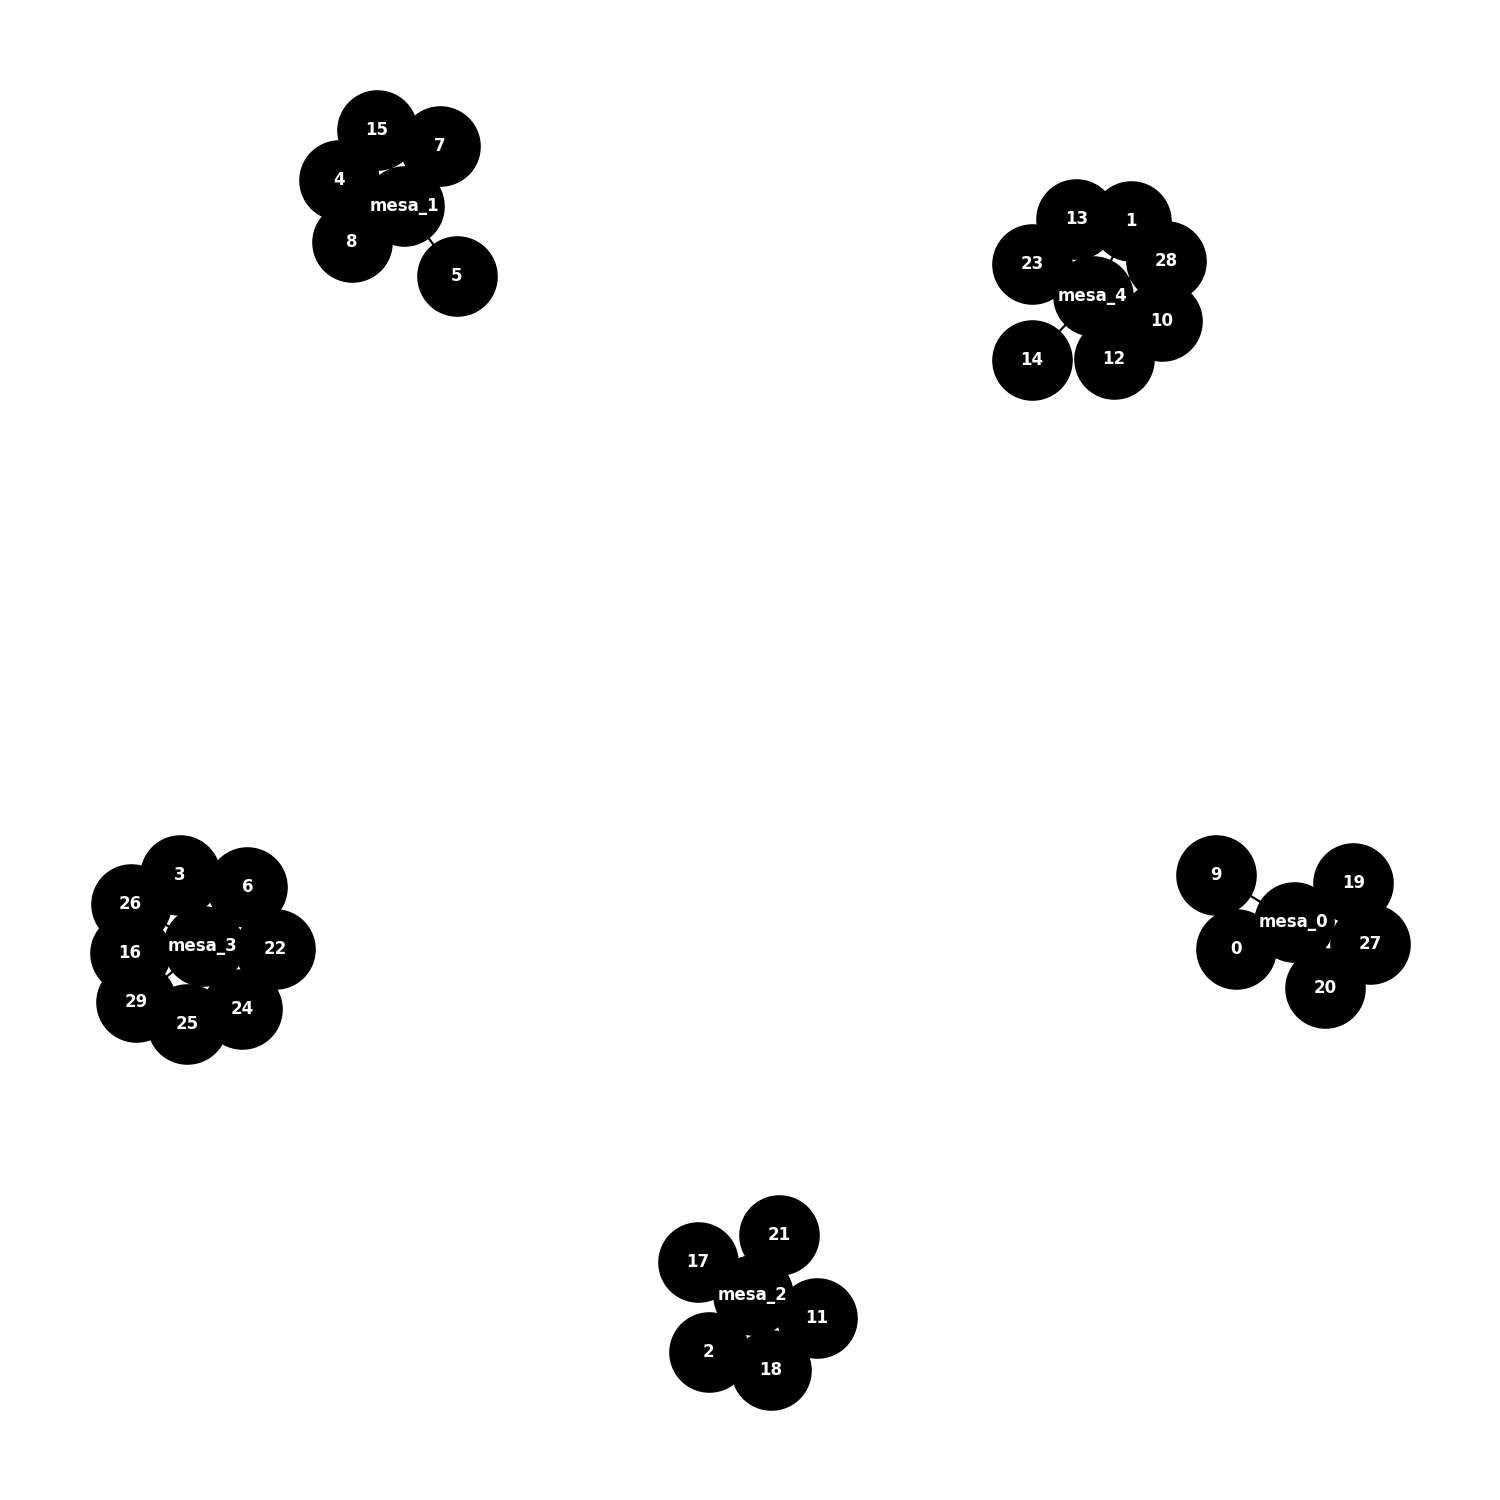
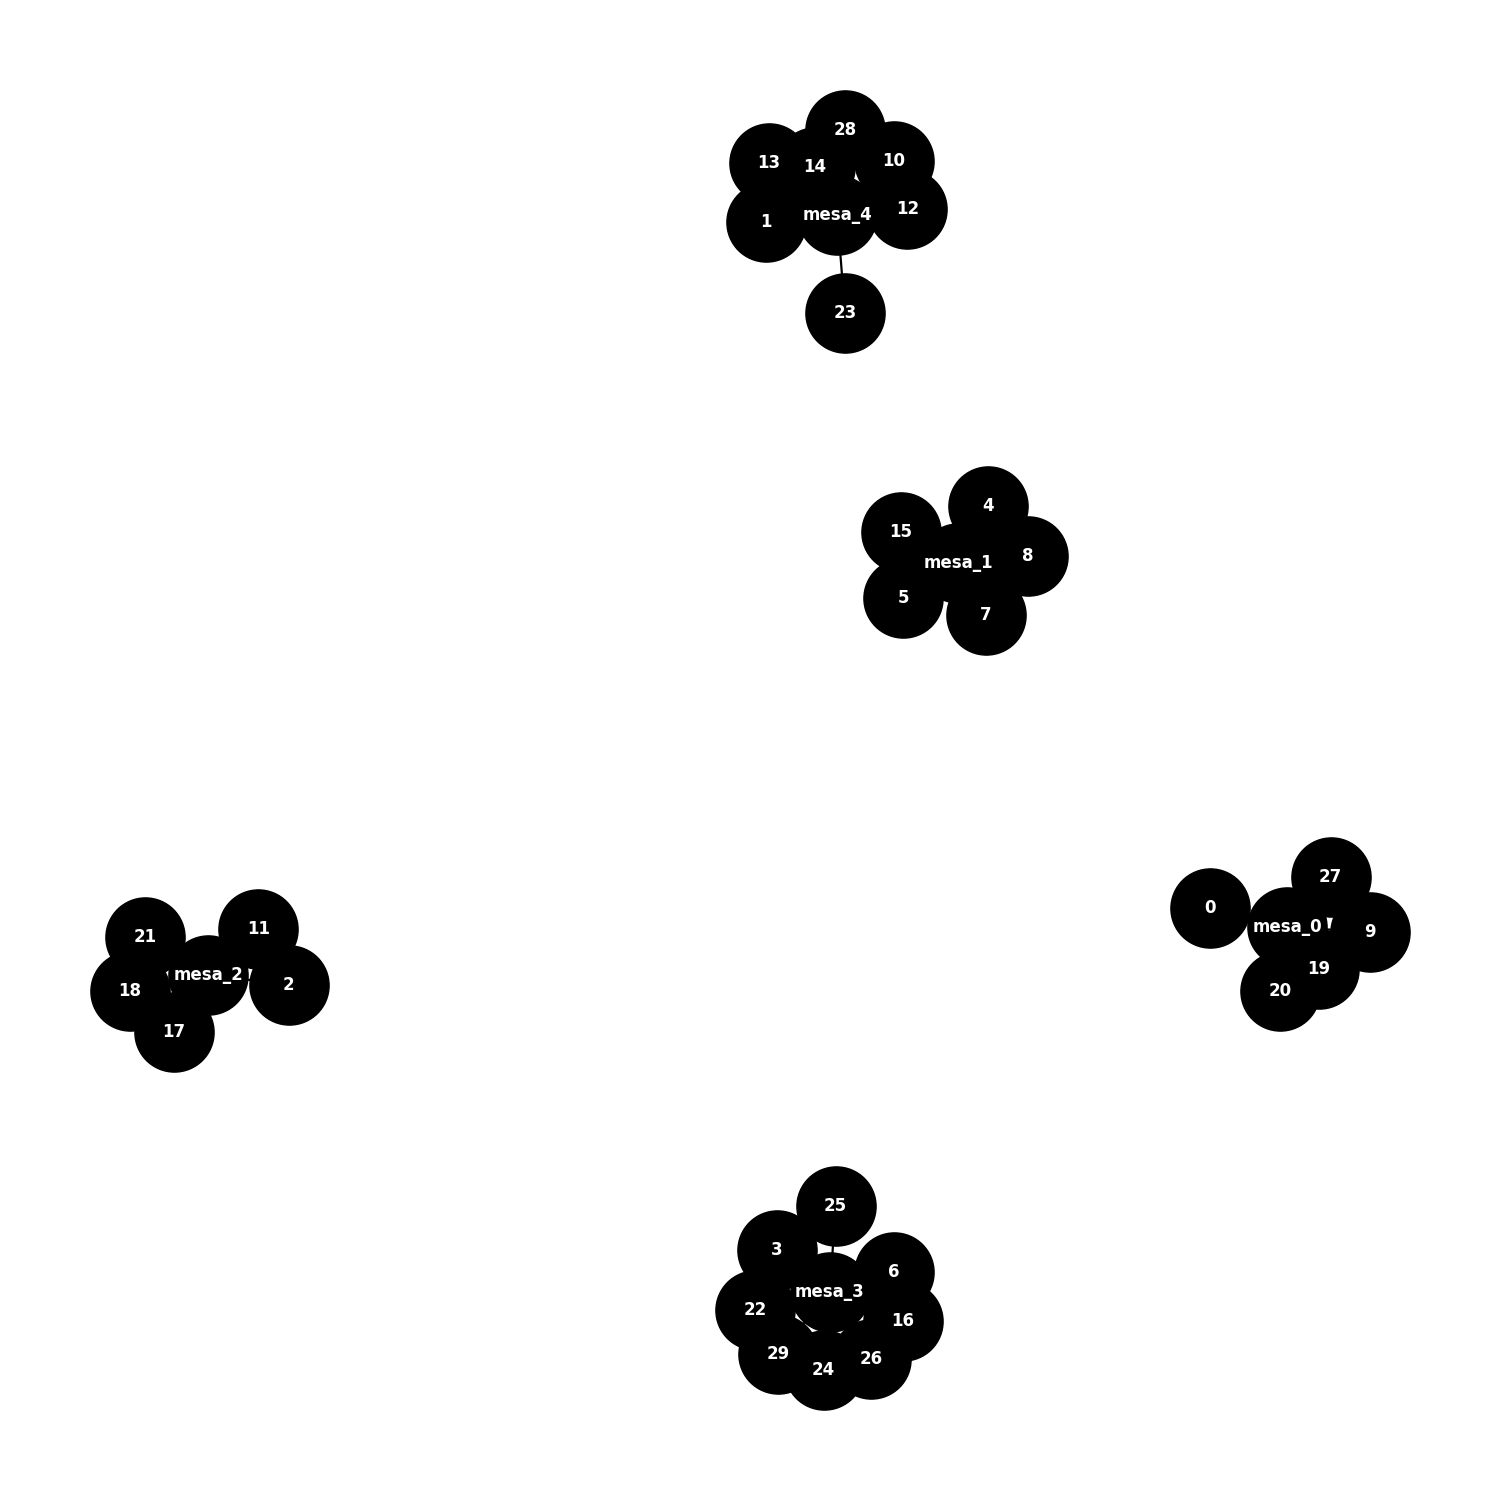
melhorar tempo

diff --git a/src/funtion_movimento_vizinhanca.py b/src/funtion_movimento_vizinhanca.py
@@ -17,11 +17,9 @@ def swap_solution(main, matrix_afinidade):
           break
         for t in nodes_edg(k,copia):
           if((j,t) in pares or (t,j) in pares):
-            # print(f"{i}")
             continue
           pares.append((j,t))
           pares.append((t,j))
-          # print(f'[{i}][{j}] -> [{k}][{t}]')
 
           
           copia.remove_edge(i,j)

diff --git a/src/function_tratamentos.py b/src/function_tratamentos.py
@@ -13,12 +13,7 @@ def get_mesa(indice,grafo):
             return n
             
 def nodes_edg(nome_mesa,grafo):
-    mesa_brut = list(grafo.edges)
-    lista = []
-    for n in mesa_brut:
-        if (n[0] == nome_mesa):
-            lista.append(n[1])
-    return lista
+    return list(grafo.neighbors(nome_mesa))
 
 def solution(sol, matrix_afinidade):
     soma = 0

diff --git a/src/vnd.py b/src/vnd.py
@@ -6,9 +6,9 @@ def VND (mesa,matrix_afinidade):
   k = 1
   while (k<=r):
     if (k == 1):
-      copia_VND = Reinsertion(mesa,matrix_afinidade)
-    elif (k==2):
       copia_VND = swap_solution(mesa,matrix_afinidade )
+    elif (k==2):
+      copia_VND = Reinsertion(mesa,matrix_afinidade)
 
 
 
